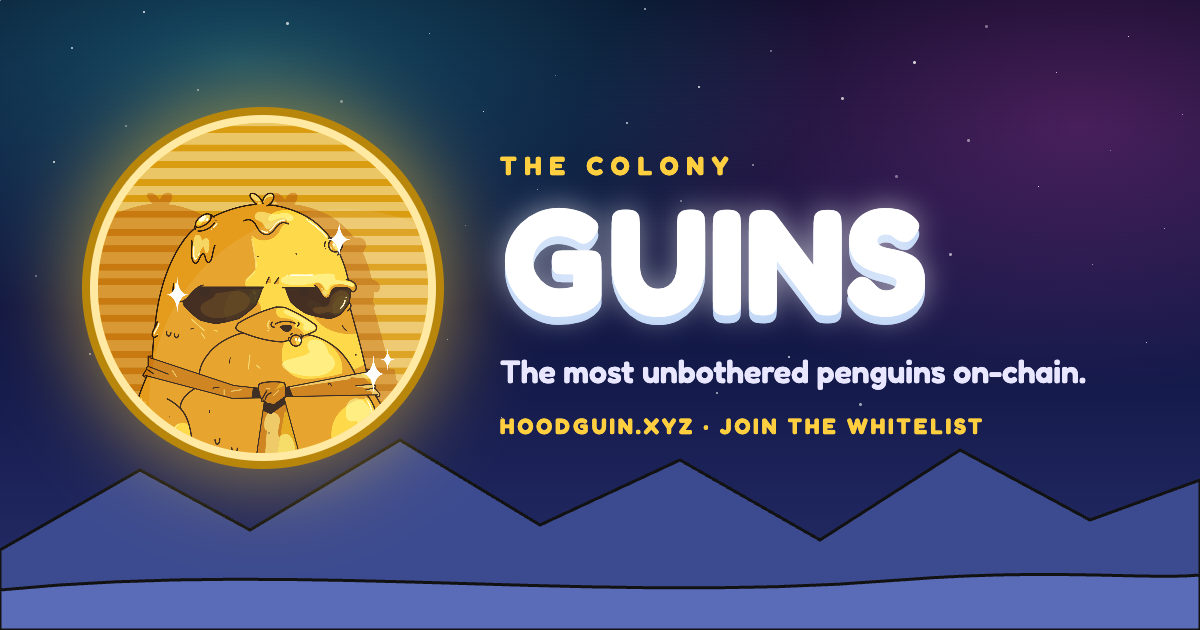
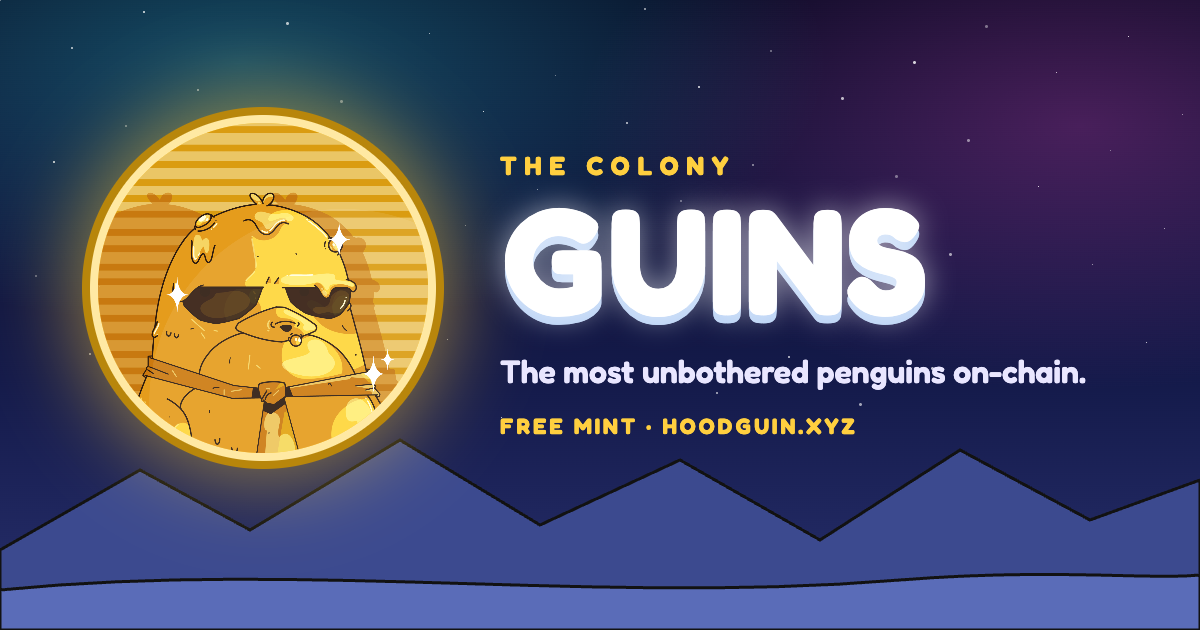
Free mint: whitelist headline, hero tagline, ribbon, description and share card

Changed region(s): [[0.4008, 0.6635, 0.8325, 0.6937]]

diff --git a/src/components/Hero.tsx b/src/components/Hero.tsx
@@ -15,14 +15,14 @@ export function Hero() {
             {open ? "Applications open" : "Applications opening soon"}
           </p>
           <h2 className="mt-6 font-display text-[clamp(3.6rem,9vw,6.5rem)] leading-[0.88] font-bold tracking-tight uppercase">
-            Whitelist<span className="text-accent">.</span>
+            Free mint<span className="text-accent">.</span>
           </h2>
           <p className="mt-3 font-display text-[clamp(2rem,4.6vw,3.4rem)] leading-[0.95] font-bold text-accent uppercase">
             Join the
             <br />
             colony.
           </p>
-          <p className="mt-6 max-w-sm text-lg text-dim">Sign in with X. Complete the tasks. Submit your wallet.</p>
+          <p className="mt-6 max-w-sm text-lg text-dim">Get on the whitelist. Sign in with X, complete the tasks, submit your wallet.</p>
 
           <div className="mt-10 max-w-sm border-t border-line pt-6">
             <a href="#colony" className="group inline-flex items-center gap-4">

diff --git a/src/app/layout.tsx b/src/app/layout.tsx
@@ -10,8 +10,8 @@ const fredoka = Fredoka({ variable: "--font-fredoka", subsets: ["latin"] });
 const mono = JetBrains_Mono({ variable: "--font-jbmono", subsets: ["latin"] });
 
 const TITLE = "Guins · The colony";
-const DESCRIPTION = "The most unbothered little penguins on-chain. Join the whitelist, meet the gang and get ready for $RPENG.";
-const SHARE = { url: "/og.png", width: 1200, height: 630, alt: "Guins: the most unbothered penguins on-chain" };
+const DESCRIPTION = "Free mint. The most unbothered little penguins on-chain. Join the whitelist, meet the gang and get ready for $RPENG.";
+const SHARE = { url: "/og.png", width: 1200, height: 630, alt: "Guins: free mint. The most unbothered penguins on-chain" };
 
 // Favicon and home-screen icons come from src/app/favicon.ico, icon.png and apple-icon.png
 export const metadata: Metadata = {

diff --git a/src/components/Ribbon.tsx b/src/components/Ribbon.tsx
@@ -1,5 +1,5 @@
 // One scrolling ticker between the hero and the gang.
-const WORDS = ["guins", "the colony", "do not disturb", "$RPENG", "unbothered", "gm (grumpy morning)", "waddle together", "no smiling (ok maybe one)"];
+const WORDS = ["free mint", "guins", "the colony", "do not disturb", "$RPENG", "unbothered", "gm (grumpy morning)", "waddle together", "no smiling (ok maybe one)"];
 
 export function Ribbon() {
   const row = [...WORDS, ...WORDS];

diff --git a/src/app/page.tsx b/src/app/page.tsx
@@ -12,7 +12,7 @@ export default function Home() {
       <Scene />
       <Nav />
       <main>
-        <Intro cta={{ label: "Get a Guin", href: "#apply" }} />
+        <Intro tagline="Free mint · The most unbothered penguins on-chain" cta={{ label: "Get a Guin", href: "#apply" }} />
         <Hero />
         <Ribbon />
         <Lineup />
